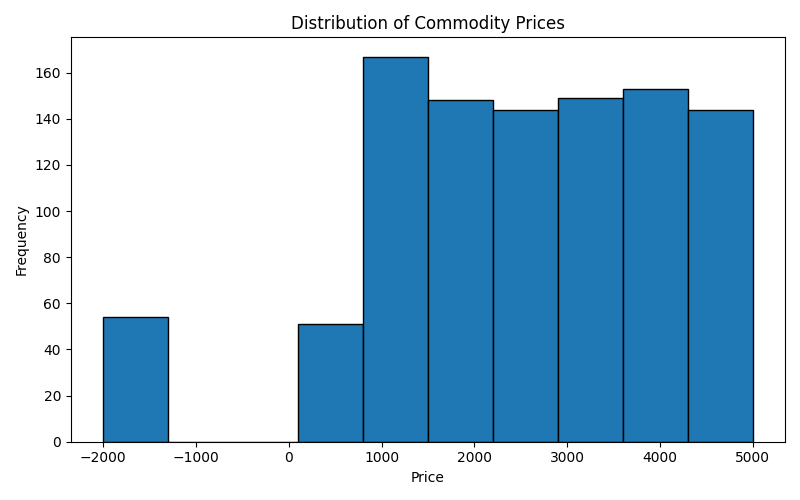
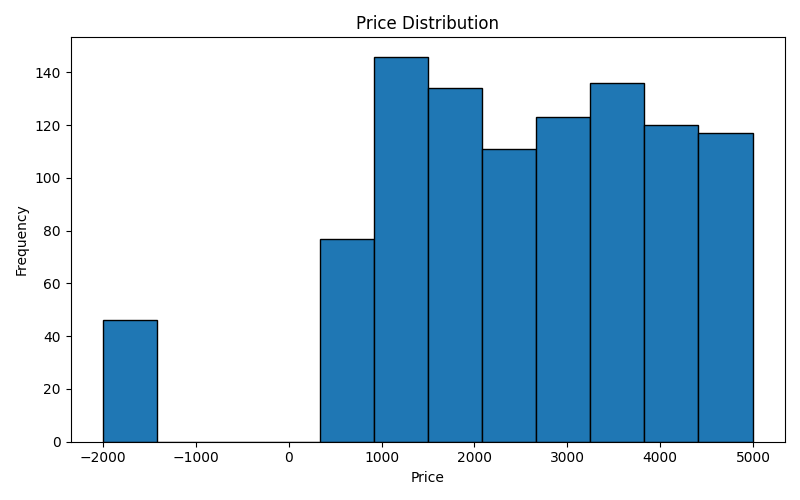
Create data profiler and histogram summary

diff --git a/src/validate/profile.py b/src/validate/profile.py
@@ -1,82 +1,94 @@
-#%%
+import sys
+from pathlib import Path
+
+ROOT = Path(__file__).resolve().parents[2]
+if str(ROOT) not in sys.path:
+    sys.path.insert(0, str(ROOT))
+
+import matplotlib
+matplotlib.use("Agg")
+import matplotlib.pyplot as plt
 import pandas as pd
 
-import matplotlib.pyplot as plt
-
-#%%
-## here we import the rules from the rules.py file but can run from the terminal since its vs code
-from src.validate import rules 
-
+from src.validate import rules
 
 raw_path = "data/raw/prices.csv"
 
-## this is the main function that will run the rules on the data
+
 def inferred_schema(df):
-    print("\n---- Inferred Schema ----")
-    print("----------------------------")
-    print(df.dtypes)
+    return df.dtypes.astype(str).to_dict()
+
 
 def row_count(df):
-         print("\n---- Row Count ----")
-         print("----------------------------")
-         print(len(df))
-
-## this function will run the rules on the data frame and print the number of negative values
-def negative_values(df):
-     negative_values = rules.rule_positive_price(df)
-     print("\n---- Negative Values ----")
-     print("----------------------------")
-     print(len(negative_values))
-
-def duplicate_ids(df):
-     duplicate_ids = rules.rule_duplicate_ids(df)
-     print("\n---- Duplicate IDs ----")
-     print("----------------------------")
-     print(len(duplicate_ids))
+    return len(df)
 
 
-def price_histogram(df):
+def count_missing_values(df):
+    return df.isna().sum().to_dict()
+
+
+def duplicate_counts(df):
+    return {
+        "exact_row_duplicates": int(df.duplicated().sum()),
+        "duplicate_record_ids": int(rules.rule_duplicate_ids(df).shape[0]),
+    }
+
+
+def invalid_value_summary(df):
+    return {
+        "negative_or_zero_prices": int(rules.rule_positive_price(df).shape[0]),
+        "invalid_dates": int(rules.rule_valid_date(df).shape[0]),
+        "missing_markets": int(rules.rule_missing_market(df).shape[0]),
+        "unknown_commodities": int(rules.rule_known_commodity(df, ["maize", "beans"]).shape[0]),
+    }
+
+
+def numeric_summary(df):
+    return df.select_dtypes(include="number").describe().transpose().to_dict()
+
+
+def price_histogram(df, output_path="docs/price_histogram.png"):
     plt.figure(figsize=(8, 5))
-    plt.hist(df["price"].dropna(), bins=10, edgecolor="black")
-    plt.title("Distribution of Commodity Prices")
+    plt.hist(df["price"].dropna(), bins=12, edgecolor="black")
+    plt.title("Price Distribution")
     plt.xlabel("Price")
     plt.ylabel("Frequency")
     plt.tight_layout()
-    plt.savefig("docs/price_histogram.png")
-    plt.show()
+    plt.savefig(output_path)
+    plt.close()
+    return output_path
 
 
-
- # Validation rules
-    print("\nValidation failures:")
-    print("Invalid prices:", len(rules.rule_positive_price(df)))
-    print("Duplicate IDs:", len(rules.rule_duplicate_ids(df)))
-    print("Duplicate rows:", len(rules.rule_duplicate_rows(df)))
-    print("Invalid dates:", len(rules.rule_valid_date(df)))
-    print("Missing markets:", len(rules.rule_missing_market(df)))
-    print("Unknown commodities:", len(rules.rule_known_commodity(df)))
-
- 
-
-
-
-## This functions from the raw path. but it runs the rules on the data frame and prints them
-def run_files(path = raw_path):
-    ## reads the data frame from the path
+def run_profiler(path=raw_path):
     df = pd.read_csv(path)
-    inferred_schema(df)
-    row_count(df)
-    negative_values(df)
-    duplicate_ids(df)
-    price_histogram(df)
+    report = {
+        "schema": inferred_schema(df),
+        "row_count": row_count(df),
+        "missing_values": count_missing_values(df),
+        "duplicates": duplicate_counts(df),
+        "invalid_values": invalid_value_summary(df),
+        "numeric_summary": numeric_summary(df),
+        "histogram_path": price_histogram(df),
+    }
 
-## to run the fuction from the dataframe
+    print("\n---- Inferred Schema ----")
+    print(report["schema"])
+    print("\n---- Row Count ----")
+    print(report["row_count"])
+    print("\n---- Missing Values ----")
+    print(report["missing_values"])
+    print("\n---- Duplicate Counts ----")
+    print(report["duplicates"])
+    print("\n---- Invalid Values ----")
+    print(report["invalid_values"])
+    print("\n---- Numeric Summary ----")
+    for key, value in report["numeric_summary"].items():
+        print(key, value)
+    print(f"\nHistogram saved to: {report['histogram_path']}")
+    return report
+
+
 if __name__ == "__main__":
-    run_files("data/raw/prices.csv")
-
-
-## to call and check if it works you say python src/validate/profile and it will print the schema of the data frame
-
-
+    run_profiler("data/raw/prices.csv")
 
    
